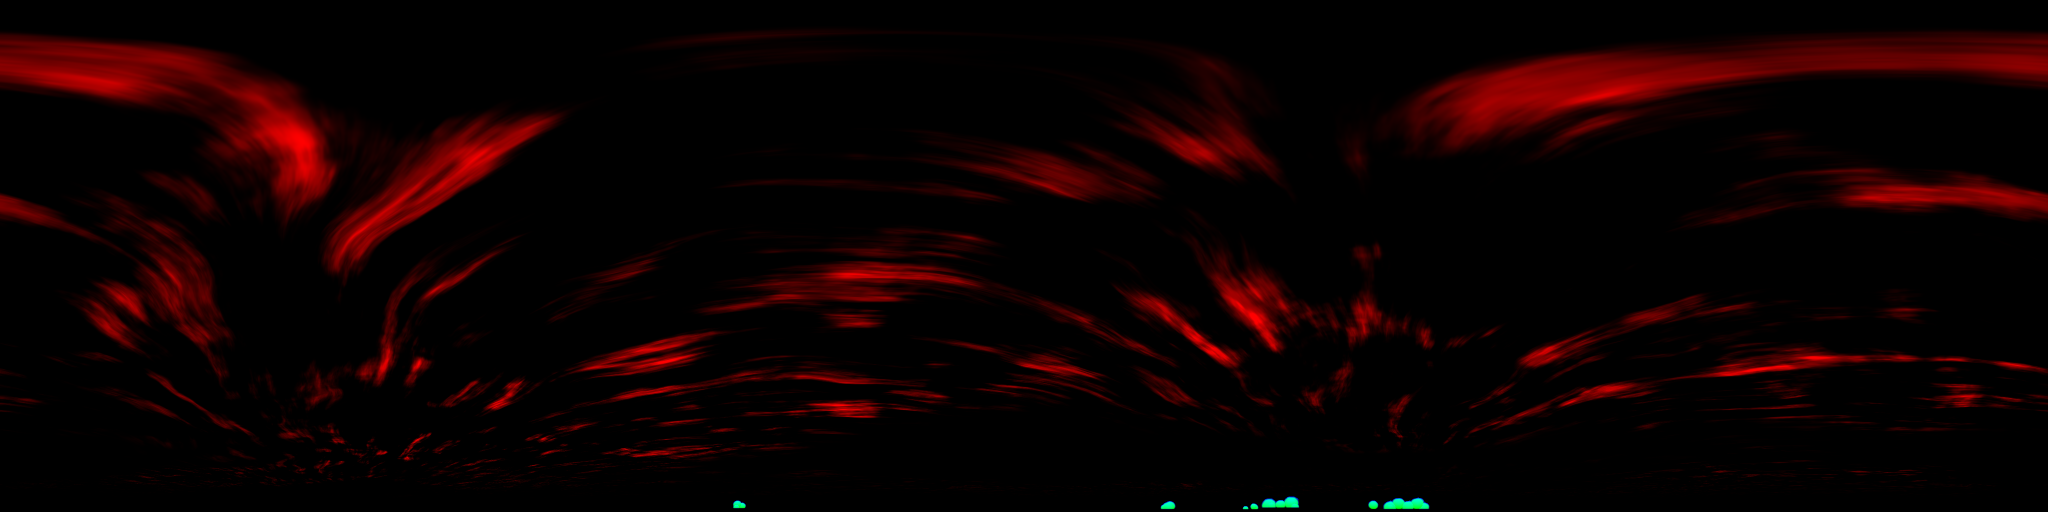
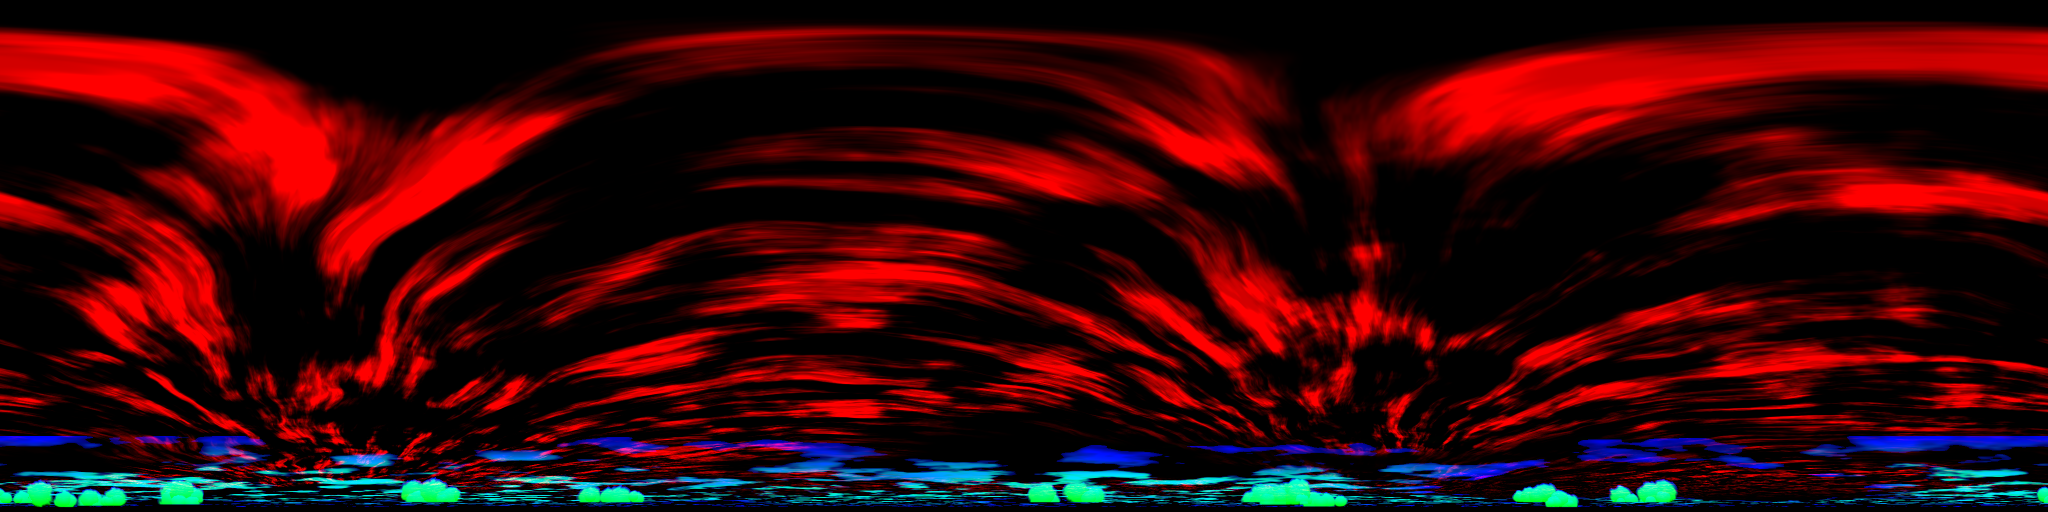
Himmel: deutlich sichtbare Cirren und Cumuli am Horizont, Testargument -demoLookAtSun
Claude-Session: https://claude.ai/code/session_01EN64LruVLhBQkAfe5N6bxC

diff --git a/App/RowCoach/Scene3D/SkyRig.swift b/App/RowCoach/Scene3D/SkyRig.swift
@@ -63,6 +63,19 @@ final class SkyRig {
         }
     }
 
+    /// Startargument `-demoLookAtSun 1` (nur Testbetrieb): Blickrichtung der Kamera zur Sonne, damit Bildschirmfotos
+    /// zeigen, ob Abendrot (Skybox) und Sonnenscheibe (Billboard) übereinanderliegen. Kurs um die Hochachse wie
+    /// `cameraHeading` (0 = Blick nach −z), Neigung so, dass die Sonne im oberen Bilddrittel steht (höchstens 20°).
+    var demoSunView: (heading: Float, pitch: Float)? {
+        guard Self.demoLookAtSun else { return nil }
+        let horiz = (toSun.x * toSun.x + toSun.z * toSun.z).squareRoot()
+        guard horiz > 0.05 else { return nil }   // Sonne fast im Zenit: kein sinnvoller Kurs
+        let elevation = atan2(toSun.y, horiz)
+        return (atan2(-toSun.x, -toSun.z), min(max(elevation - 0.12, -0.05), 0.35))
+    }
+
+    static let demoLookAtSun = UserDefaults.standard.bool(forKey: "demoLookAtSun")
+
     /// Pro Bild: Dunst und Sonne wandern mit der Kamera.
     func follow(eye: SIMD3<Float>) {
         haze.position = [eye.x, 0, eye.z]

diff --git a/App/RowCoach/Scene3D/RowingSceneController.swift b/App/RowCoach/Scene3D/RowingSceneController.swift
@@ -330,10 +330,12 @@ final class RowingSceneController {
         boat.root.orientation = simd_quatf(angle: Float(boatHeading), axis: [0, 1, 0])
 
         // Kamera: hinter dem Boot, Blick nach vorn
-        let heading = Float(cameraHeading)
+        // Testbetrieb `-demoLookAtSun 1`: Kamera blickt zur Sonne (Lage von Abendrot und Sonnenscheibe prüfen)
+        let sunView = sky.demoSunView
+        let heading = sunView?.heading ?? Float(cameraHeading)
         let forward = SIMD3<Float>(-sin(heading), 0, -cos(heading))
         let eye = boatPosition - forward * cameraBack + SIMD3<Float>(0, cameraHeight, 0)
-        let pitch = -atan2(cameraHeight - lookTargetHeight, cameraBack + lookAhead)
+        let pitch = sunView?.pitch ?? -atan2(cameraHeight - lookTargetHeight, cameraBack + lookAhead)
         camera.position = eye
         camera.orientation = simd_quatf(angle: heading, axis: [0, 1, 0]) * simd_quatf(angle: pitch, axis: [1, 0, 0])
 

diff --git a/App/RowCoach/Scene3D/SceneEnvironment.swift b/App/RowCoach/Scene3D/SceneEnvironment.swift
@@ -81,8 +81,8 @@ struct SceneEnvironment: Equatable, Sendable {
             skyGlowStrength: 0.85 + (0.22 - 0.85) * h,
             cirrusColor: mix([1.0, 0.72, 0.58], [1.0, 1.0, 1.0]),
             cumulusLitColor: mix([1.0, 0.80, 0.64], [1.0, 1.0, 1.0]),
-            cumulusShadowColor: mix([0.52, 0.44, 0.50], [0.68, 0.72, 0.79]),
-            cloudOpacity: 0.8,
+            cumulusShadowColor: mix([0.50, 0.42, 0.48], [0.60, 0.65, 0.74]),
+            cloudOpacity: 0.95,
             sunAzimuthDegrees: Float(azimuth),
             sunElevationDegrees: el,
             sunColor: mix([1.00, 0.58, 0.32], [1.0, 0.96, 0.88]),

diff --git a/App/RowCoach/Scene3D/ProceduralTextures.swift b/App/RowCoach/Scene3D/ProceduralTextures.swift
@@ -88,7 +88,7 @@ enum ProceduralTextures {
                 if cu > 0.002 {
                     let lit = Float(px[2]) / 255
                     var uc = simd_mix(env.cumulusShadowColor, env.cumulusLitColor, SIMD3<Float>(repeating: lit))
-                    uc = simd_mix(uc, env.skyHorizon, SIMD3<Float>(repeating: 0.25))
+                    uc = simd_mix(uc, env.skyHorizon, SIMD3<Float>(repeating: 0.10))
                     c = simd_mix(c, uc, SIMD3<Float>(repeating: cu))
                 }
             }

diff --git a/tools/coursebuilder/sky_clouds.py b/tools/coursebuilder/sky_clouds.py
@@ -1,5 +1,5 @@
 """Wolkenschicht für den Himmel der App (eigene Arbeit, Lizenz wie der Code): feine Cirrus-/Federwolken und
-einzelne kleine Schönwetter-Cumuli am Horizont, als Maske für die obere Himmelshälfte.
+Schönwetter-Cumuli am Horizont (einzelne Haufen und Felder in der Ferne), als Maske für die obere Himmelshälfte.
 
 Ergebnis: App/RowCoach/Resources/sky-clouds.png (RGB, 2048 × 512, equirektangular, Zeile 0 = Zenit, letzte Zeile
 = Horizont; Spalten = Azimut, Lage beliebig):
@@ -81,7 +81,7 @@ def block(r0, r1, w, h, seed):
     cx, cz = np.cos(LAT) * np.sin(AZ), np.cos(LAT) * np.cos(AZ)
 
     # --- Cirrus: Ebene über der Kamera, Strähnen entlang der Windrichtung
-    inv = 1.0 / np.maximum(y, 0.035)
+    inv = 1.0 / np.maximum(y, 0.02)
     px, pz = cx * inv, cz * inv
     wind = np.radians(32.0)
     u = px * np.cos(wind) + pz * np.sin(wind)
@@ -92,10 +92,10 @@ def block(r0, r1, w, h, seed):
     hooks = fbm(u * 2.2 + 4.0 * warp, v2 * 2.2, seed + 303, 5)           # Federn, Haken
     cover = fbm(px * 0.16 + 11.0, pz * 0.16 - 7.0, seed + 404, 4)        # Felder mit und ohne Wolken
     base = 0.62 * streak + 0.38 * hooks
-    cirrus = smoothstep(0.53, 0.78, base) * smoothstep(0.42, 0.66, cover)
+    cirrus = smoothstep(0.47, 0.70, base) * smoothstep(0.34, 0.58, cover)
     cirrus *= 0.55 + 0.45 * smoothstep(0.35, 0.75, fbm(u * 3.5, v2 * 22.0, seed + 505, 3))  # Faserstruktur
-    cirrus *= smoothstep(0.035, 0.20, y)                                   # zum Horizont in den Dunst
-    cirrus = np.clip(cirrus * 1.15, 0, 1)
+    cirrus *= smoothstep(0.025, 0.12, y)                                   # zum Horizont in den Dunst
+    cirrus = np.clip(cirrus * 1.5, 0, 1)
 
     # --- Cumuli: wenige kleine Haufen knapp über dem Horizont, je Haufen einige runde Quellwolken (Kreise in
     #     Grad Azimut × Grad Höhe), unten flach abgeschnitten; leicht ausgefranster Rand
@@ -106,20 +106,32 @@ def block(r0, r1, w, h, seed):
     shade = np.zeros_like(lat_d)
     rx3, ry3 = np.cos(AZ) * 60.0, np.sin(AZ) * 60.0
     fray = fbm(rx3 + lat_d * 0.6, ry3 + lat_d * 0.6, seed + 909, 3) - 0.5
-    for _ in range(6):
+    for _ in range(13):
         c_az = rng.uniform(0, 360)
-        base = rng.uniform(0.45, 0.8)                      # Unterkante in Grad
-        width = rng.uniform(3.0, 8.0)                      # Breite des Haufens in Grad
-        for _ in range(int(rng.integers(3, 7))):
-            r = rng.uniform(0.6, 1.4) * min(1.0, width / 5)
+        base = rng.uniform(0.7, 1.8)                       # Unterkante in Grad (über den Hügeln am Ufer)
+        width = rng.uniform(4.0, 12.0)                     # Breite des Haufens in Grad
+        for _ in range(int(rng.integers(4, 9))):
+            r = rng.uniform(1.0, 3.0) * min(1.0, width / 7)
             pa = c_az + rng.uniform(-width / 2, width / 2)
-            pl = base + r * rng.uniform(0.2, 0.8)
+            pl = base + r * rng.uniform(0.15, 0.85)
             da = (az_d - pa + 540) % 360 - 180
-            dist = np.sqrt(da ** 2 + ((lat_d - pl) * 1.15) ** 2) / r + 0.25 * fray
+            dist = np.sqrt(da ** 2 + ((lat_d - pl) * 1.15) ** 2) / r + 0.40 * fray
             dens = smoothstep(1.0, 0.75, dist) * smoothstep(base - 0.05, base + 0.12, lat_d)
             lit = np.clip(0.55 + 0.6 * (lat_d - pl) / r - 0.15 * dist, 0, 1)
             shade = np.where(dens > cum, lit, shade)
             cum = np.maximum(cum, dens)
+
+    # --- Zweite Schicht: Felder flacher Schönwetter-Cumuli in der Ferne (tiefe Ebene, perspektivisch zum
+    #     Horizont hin verdichtet), sichtbar zwischen ca. 1° und 12° – also im Bild der fast waagrechten Kamera
+    inv2 = 1.0 / np.maximum(y, 0.012)
+    qx, qz = cx * inv2 * 0.55, cz * inv2 * 0.55
+    n2 = fbm(qx * 1.3 + 5.0, qz * 1.3 + 9.0, seed + 1212, 4)
+    field = fbm(qx * 0.12 + 3.0, qz * 0.12 - 4.0, seed + 1313, 3)
+    band = smoothstep(0.014, 0.035, y) * (1 - smoothstep(0.10, 0.24, y))
+    d2 = smoothstep(0.53, 0.65, n2) * smoothstep(0.36, 0.56, field) * band
+    lit2 = np.clip(0.35 + 3.0 * (n2 - 0.53), 0, 1)
+    shade = np.where(d2 > cum, lit2, shade)
+    cum = np.maximum(cum, d2 * 0.9)
 
     def down(x):
         return x.reshape((r1 - r0) // SS, SS, W, SS).mean(axis=(1, 3))

diff --git a/tools/coursebuilder/sky.py b/tools/coursebuilder/sky.py
@@ -38,8 +38,8 @@ def env_for_sun(az, el):
         "haze_opacity": float(mix(0.55, 0.45, h)),
         "cirrus_color": mix([1.0, 0.72, 0.58], [1.0, 1.0, 1.0], h),
         "cumulus_lit": mix([1.0, 0.80, 0.64], [1.0, 1.0, 1.0], h),
-        "cumulus_shadow": mix([0.52, 0.44, 0.50], [0.68, 0.72, 0.79], h),
-        "cloud_opacity": 0.8,
+        "cumulus_shadow": mix([0.50, 0.42, 0.48], [0.60, 0.65, 0.74], h),
+        "cloud_opacity": 0.95,
     }
 
 
@@ -82,7 +82,7 @@ def sky_color(d, env, clouds=True):
         c = mix(c, ccol, ci[:, None])
         cu = s[:, 1] * env["cloud_opacity"]
         ucol = mix(env["cumulus_shadow"], env["cumulus_lit"], s[:, 2:3])
-        ucol = mix(ucol, env["horizon"], 0.25)
+        ucol = mix(ucol, env["horizon"], 0.10)
         c = mix(c, ucol, cu[:, None])
     return np.clip(c, 0, 1)
 

diff --git a/BUILD.md b/BUILD.md
@@ -126,6 +126,7 @@ Start z. B. mit `xcrun devicectl device process launch --console --device <UDID>
 | `-seedDemoHistory 1` | legt beim Start, falls noch keine da sind, 14 Beispieltrainings der letzten gut 5 Wochen auf vier Strecken an (frei und mit Programm, mit Puls und Phasen; Rhein Stein am Rhein bleibt „noch offen“). Gekennzeichnet als Beispiel (`demo` + `device.source = simulator`): zählen auf dem Startbildschirm, gehen nie nach Apple Health |
 | `-demoSun <zeit>` | Sonnenstand für Bildschirmfotos, übersteuert die Einstellung „Sonnenstand“: `morning`, `noon`, `evening` (Sommertag am Ort der Strecke), `now` (Uhrzeit am Ort) oder `afternoon` (fest 235°/48°, Standard). Zusammen mit `-demoCourse`; Protokoll Kategorie Scene nennt Sonne und getauschte Gebäudetexturen |
 | `-demoTraffic dense` | mehr Verkehr für Bildschirmfotos: so viele andere Ruderer, wie das Kartenpaket Bahnen hat (meist 3), ein neuer alle 12–30 s, Schiffe etwa dreimal so oft, fester Startwert (immer dieselbe Abfolge); auch `low` oder `normal`. Schaltet den Verkehr ein, auch wenn „Andere Boote auf dem Wasser“ aus ist. Zusammen mit `-demoCourse` |
+| `-demoLookAtSun 1` | nur Testbetrieb: Kamera blickt zur Sonne statt in Fahrtrichtung (Sonne im oberen Bilddrittel), um zu prüfen, ob Abendrot im Himmel und Sonnenscheibe übereinanderliegen; z. B. mit `-demoCourse zuerichsee-utoquai -demoSun evening`. Liegt das Abendrot daneben: `ProceduralTextures.equirectNorthU`/`equirectAzimuthSign` anpassen |
 | `-clearDemoHistory 1` | entfernt alle Beispieltrainings beim Start (läuft vor `-seedDemoHistory`; beide zusammen = frisch anlegen) |
 
 Akku-Ausfall nachstellen: Fahrt starten, nach 40 s `xcrun devicectl device process terminate --device <UDID> --pid <PID> --kill`, App neu starten → Wiederherstellung aus `Application Support/active-workout.json`.

diff --git a/KONZEPT.md b/KONZEPT.md
@@ -293,7 +293,7 @@ RowCoach wird **Open Source** veröffentlicht. Jetzt entsteht nur die lokale Ver
 **Entscheidung Himmel und Sonne (Team M, 23.11.2026):**
 - **Wolken im Himmelsbild (Variante a), nicht als Kuppel.** Feine Cirren und einzelne kleine Cumuli am Horizont
   stecken im equirektangularen Himmelsbild der Skybox (2048 × 1024). Die Wolkenform kommt als Maske aus der Spark
-  (`tools/coursebuilder/sky_clouds.py` → `App/RowCoach/Resources/sky-clouds.png`, eigene Arbeit, 0,26 MB). Die App
+  (`tools/coursebuilder/sky_clouds.py` → `App/RowCoach/Resources/sky-clouds.png`, eigene Arbeit, 0,56 MB; Cirren, einzelne Cumulus-Haufen 1–6° über dem Horizont und ferne Cumulusfelder 1–12°, also im Blick der fast waagrechten Kamera). Die App
   färbt sie je Sonnenstand ein: weiss am Tag, rosa und orange am Abend. Gründe:
   - Pro Bild kostet das nichts, die Skybox ist ohnehin da.
   - Eine halbtransparente Kuppel über dem ganzen Bild wäre auf dem A12X eine volle zusätzliche Überzeichnung und
